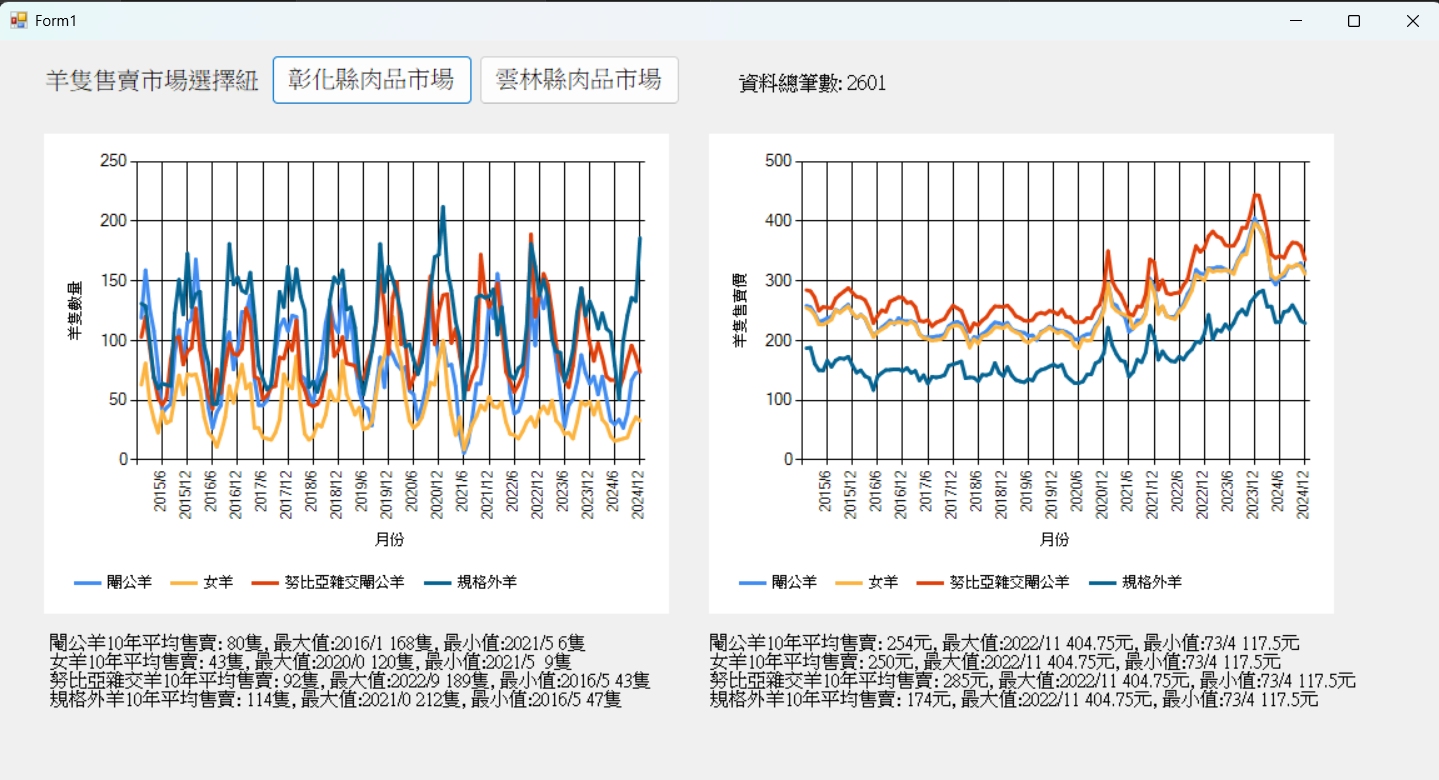
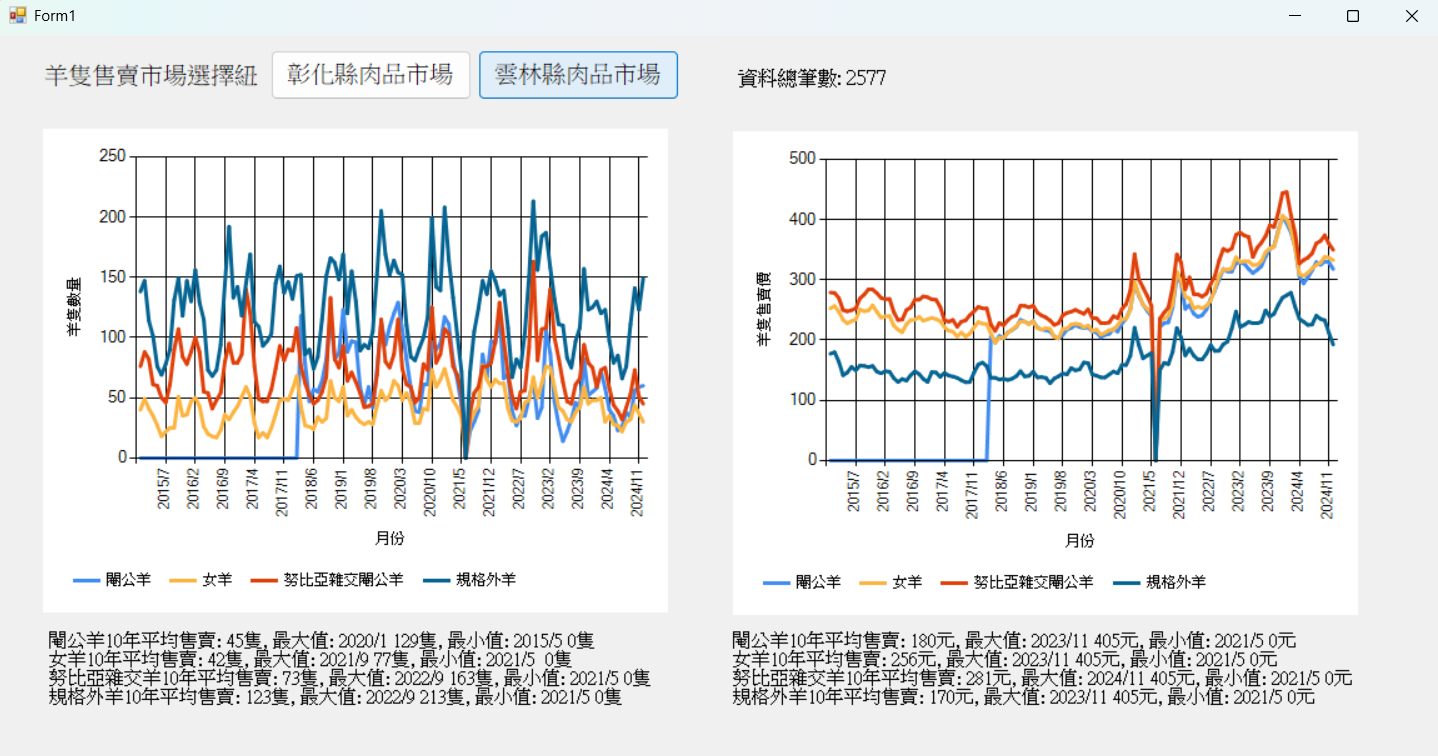
修改表格資料錯誤

diff --git a/HomeWork/OpenData分析資料練習/C111152301/WindowsFormsApp1/WindowsFormsApp1/Yunlin.cs b/HomeWork/OpenData分析資料練習/C111152301/WindowsFormsApp1/WindowsFormsApp1/Yunlin.cs
@@ -54,10 +54,10 @@ namespace WindowsFormsApp1
                 chart1.Series[2].Points.AddXY(xLabel, yunlin_month_G41[i].avenum);
                 chart1.Series[3].Points.AddXY(xLabel, yunlin_month_G32[i].avenum);
 
-                chart2.Series[0].Points.AddXY(xLabel, yunlin_month_G42[i].avenum);
-                chart2.Series[1].Points.AddXY(xLabel, yunlin_month_G21[i].avenum);
-                chart2.Series[2].Points.AddXY(xLabel, yunlin_month_G41[i].avenum);
-                chart2.Series[3].Points.AddXY(xLabel, yunlin_month_G32[i].avenum);
+                chart2.Series[0].Points.AddXY(xLabel, yunlin_month_G42[i].aveprice);
+                chart2.Series[1].Points.AddXY(xLabel, yunlin_month_G21[i].aveprice);
+                chart2.Series[2].Points.AddXY(xLabel, yunlin_month_G41[i].aveprice);
+                chart2.Series[3].Points.AddXY(xLabel, yunlin_month_G32[i].aveprice);
             }
             label1.Text = $"閹公羊10年平均售賣: {yunlin_num.average_G42}隻, 最大值: {yunlin_num.G42_max_year}/{yunlin_num.G42_max_month} {yunlin_num.G42_max}隻, 最小值: {yunlin_num.G42_min_year}/{yunlin_num.G21_min_month} {yunlin_num.G42_min}隻\n" +
                           $"女羊10年平均售賣: {yunlin_num.average_G21}隻, 最大值: {yunlin_num.G21_max_year}/{yunlin_num.G21_max_month} {yunlin_num.G21_max}隻, 最小值: {yunlin_num.G21_min_year}/{yunlin_num.G21_min_month}  {yunlin_num.G21_min}隻\n" +

diff --git a/HomeWork/OpenData分析資料練習/C111152301/readme.md b/HomeWork/OpenData分析資料練習/C111152301/readme.md
@@ -18,7 +18,7 @@
 3. 可以選擇資料來源地(雲林、彰化)，並顯示該地10年內的總資料筆數
 
 ![alt text](image-5.png)
-![alt text](image-6.png)
+![alt text](image-1.png)
 
 ---
 
